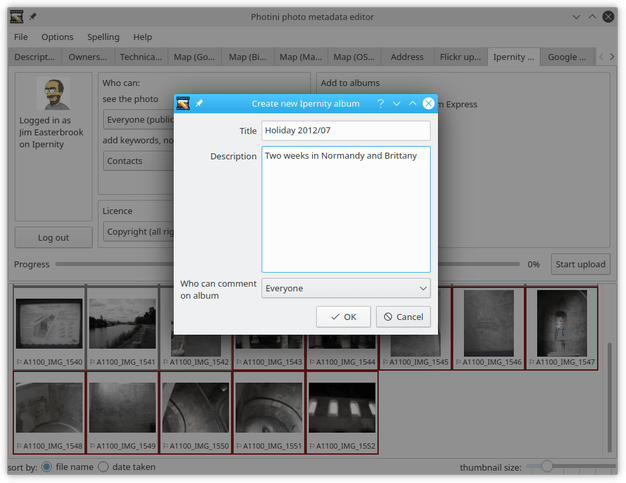
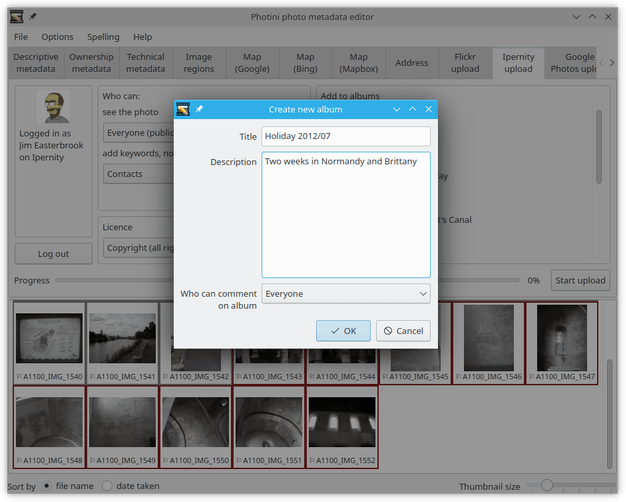
Update documentation screenshots

diff --git a/src/photini/__init__.py b/src/photini/__init__.py
@@ -1,4 +1,4 @@
 """Full documentation is at https://photini.readthedocs.io/"""
 
 __version__ = '2023.5.1'
-build = '2717 (913d6dd)'
+build = '2718 (337fa52)'
